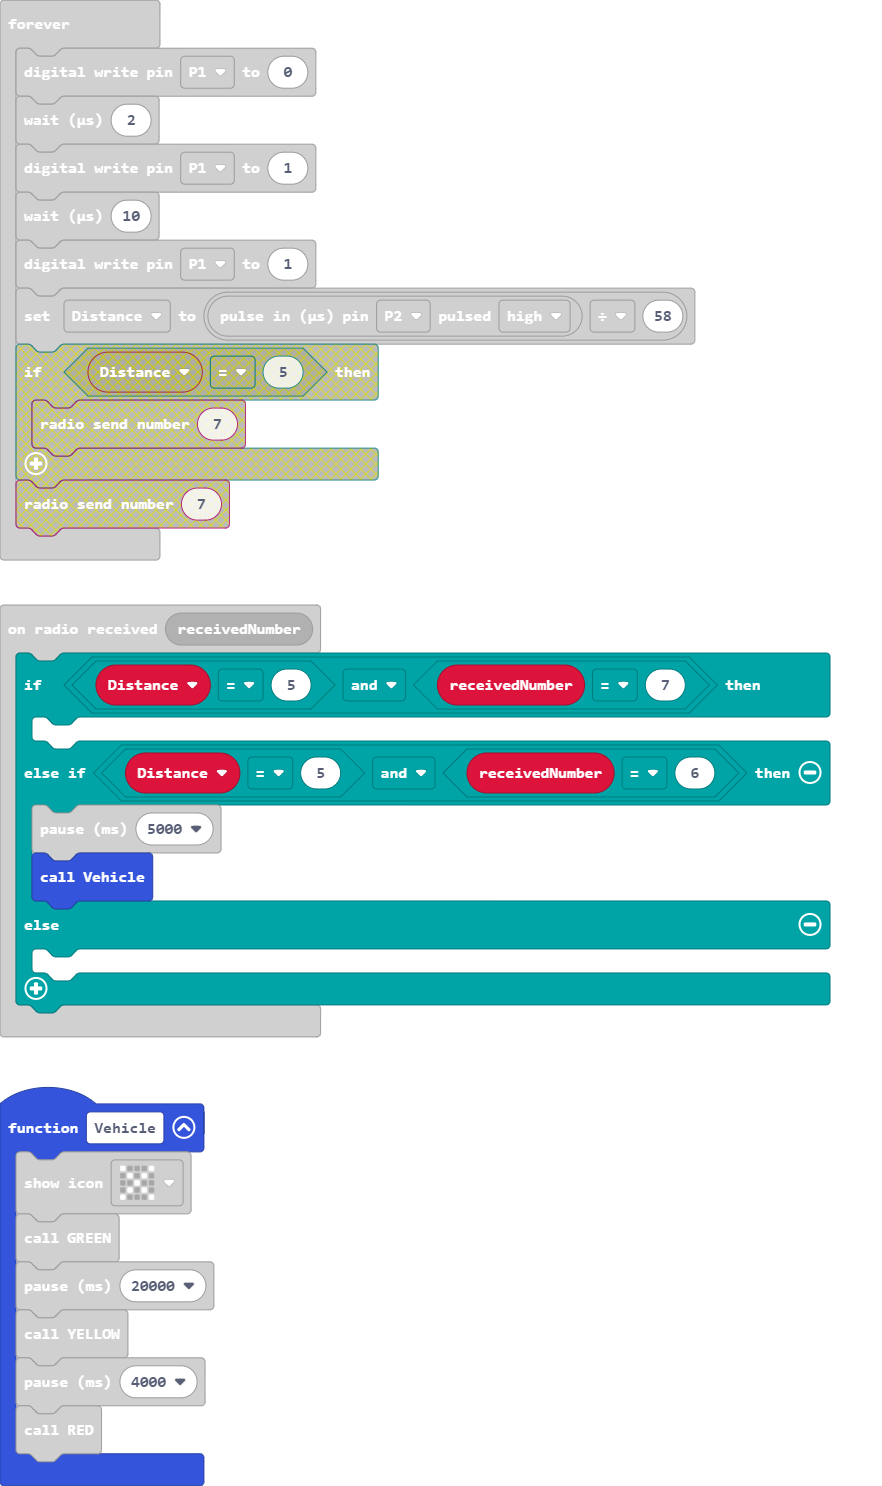
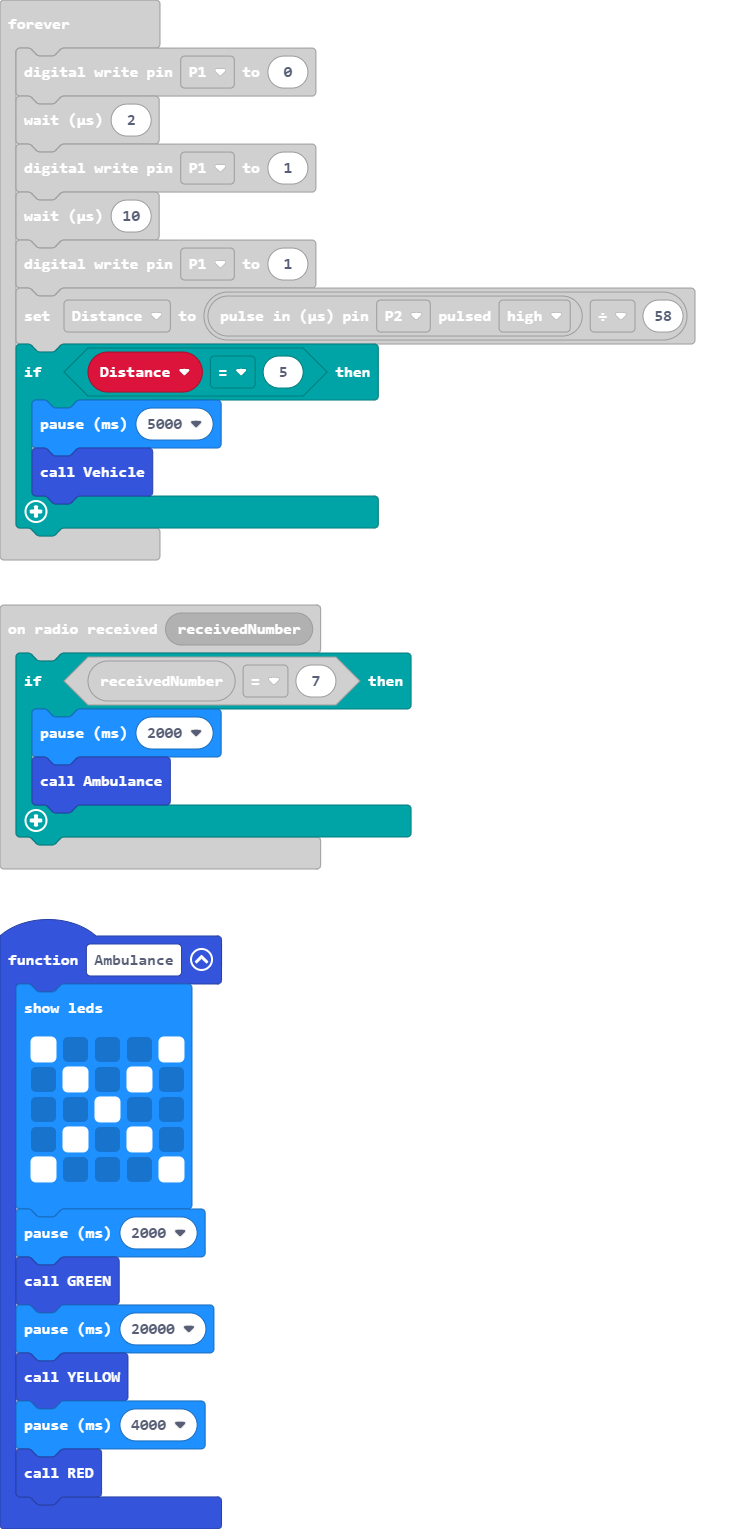
Update main.blocks, main.ts

diff --git a/main.ts b/main.ts
@@ -20,13 +20,9 @@ function Pedestrian_Crossing () {
         `)
 }
 radio.onReceivedNumber(function (receivedNumber) {
-    if (Distance == 5 && receivedNumber == 7) {
-    	
-    } else if (Distance == 5 && receivedNumber == 6) {
-        basic.pause(5000)
-        Vehicle()
-    } else {
-    	
+    if (receivedNumber == 7) {
+        basic.pause(2000)
+        Ambulance()
     }
 })
 input.onButtonPressed(Button.A, function () {
@@ -47,6 +43,21 @@ function RED () {
     range.showColor(neopixel.colors(NeoPixelColors.Black))
     range = Strip.range(2, 1)
     range.showColor(neopixel.colors(NeoPixelColors.Black))
+}
+function Ambulance () {
+    basic.showLeds(`
+        # . . . #
+        . # . # .
+        . . # . .
+        . # . # .
+        # . . . #
+        `)
+    basic.pause(2000)
+    GREEN()
+    basic.pause(20000)
+    YELLOW()
+    basic.pause(4000)
+    RED()
 }
 function Vehicle () {
     basic.showIcon(IconNames.No)
@@ -109,8 +120,8 @@ function YELLOW () {
     range = Strip.range(2, 1)
     range.showColor(neopixel.colors(NeoPixelColors.Black))
 }
-let range: neopixel.Strip = null
 let Distance = 0
+let range: neopixel.Strip = null
 let Strip: neopixel.Strip = null
 let Pedestrian_Crossing_Time = 0
 Pedestrian_Crossing_Time = 20
@@ -126,4 +137,8 @@ basic.forever(function () {
     control.waitMicros(10)
     pins.digitalWritePin(DigitalPin.P1, 1)
     Distance = pins.pulseIn(DigitalPin.P2, PulseValue.High) / 58
+    if (Distance == 5) {
+        basic.pause(5000)
+        Vehicle()
+    }
 })
